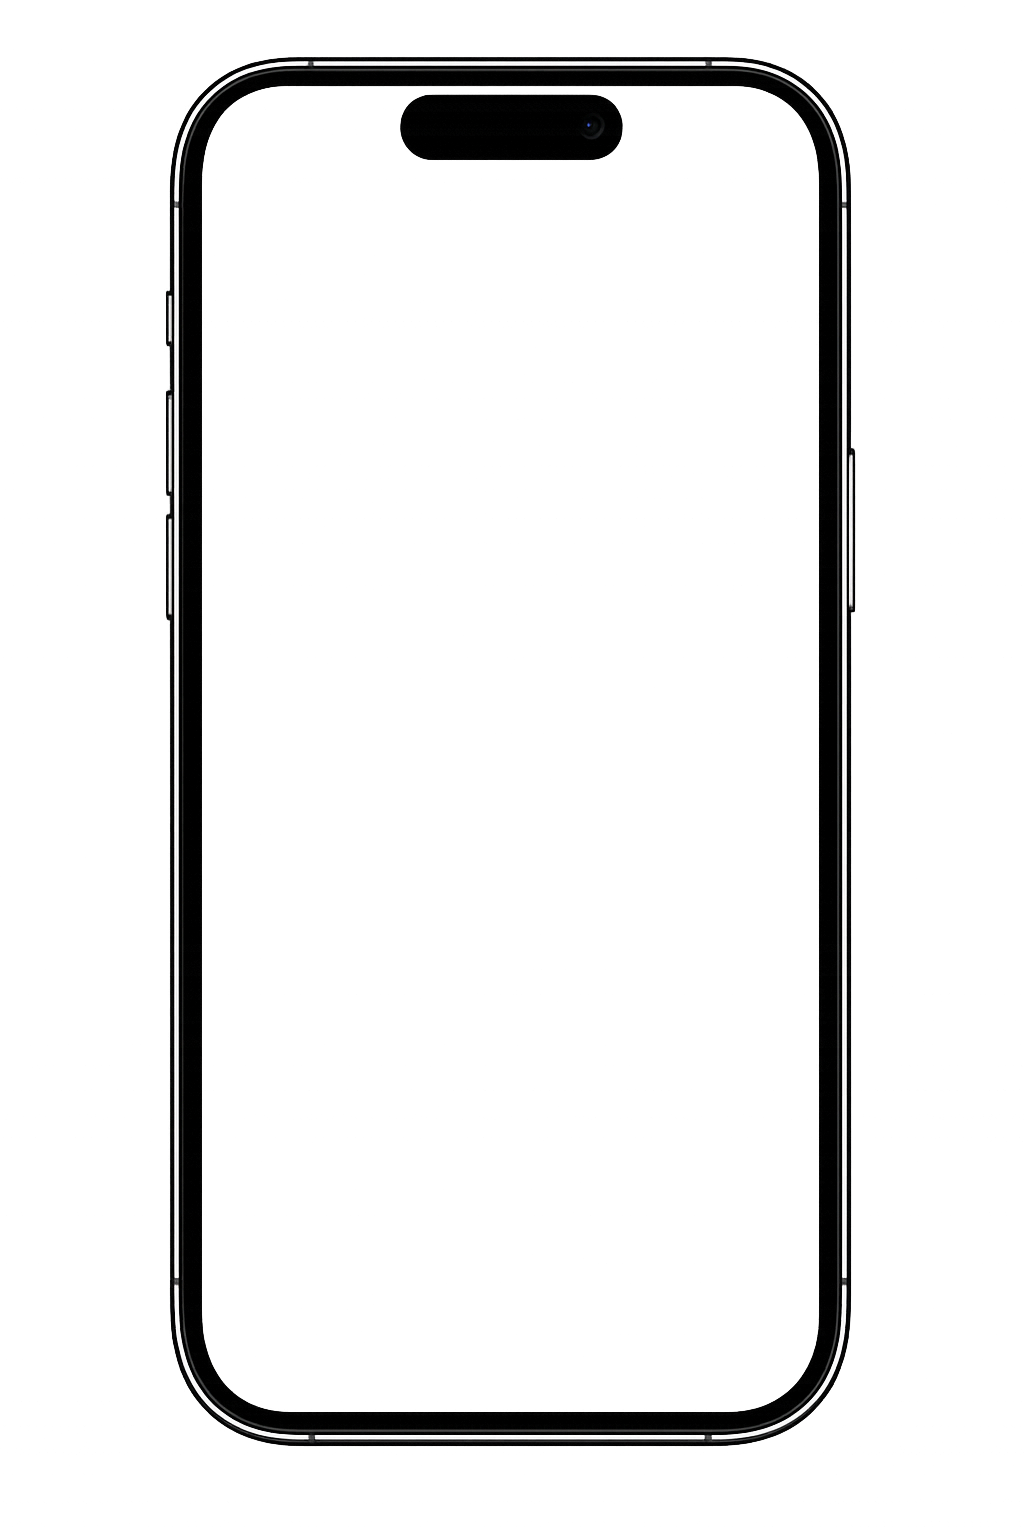
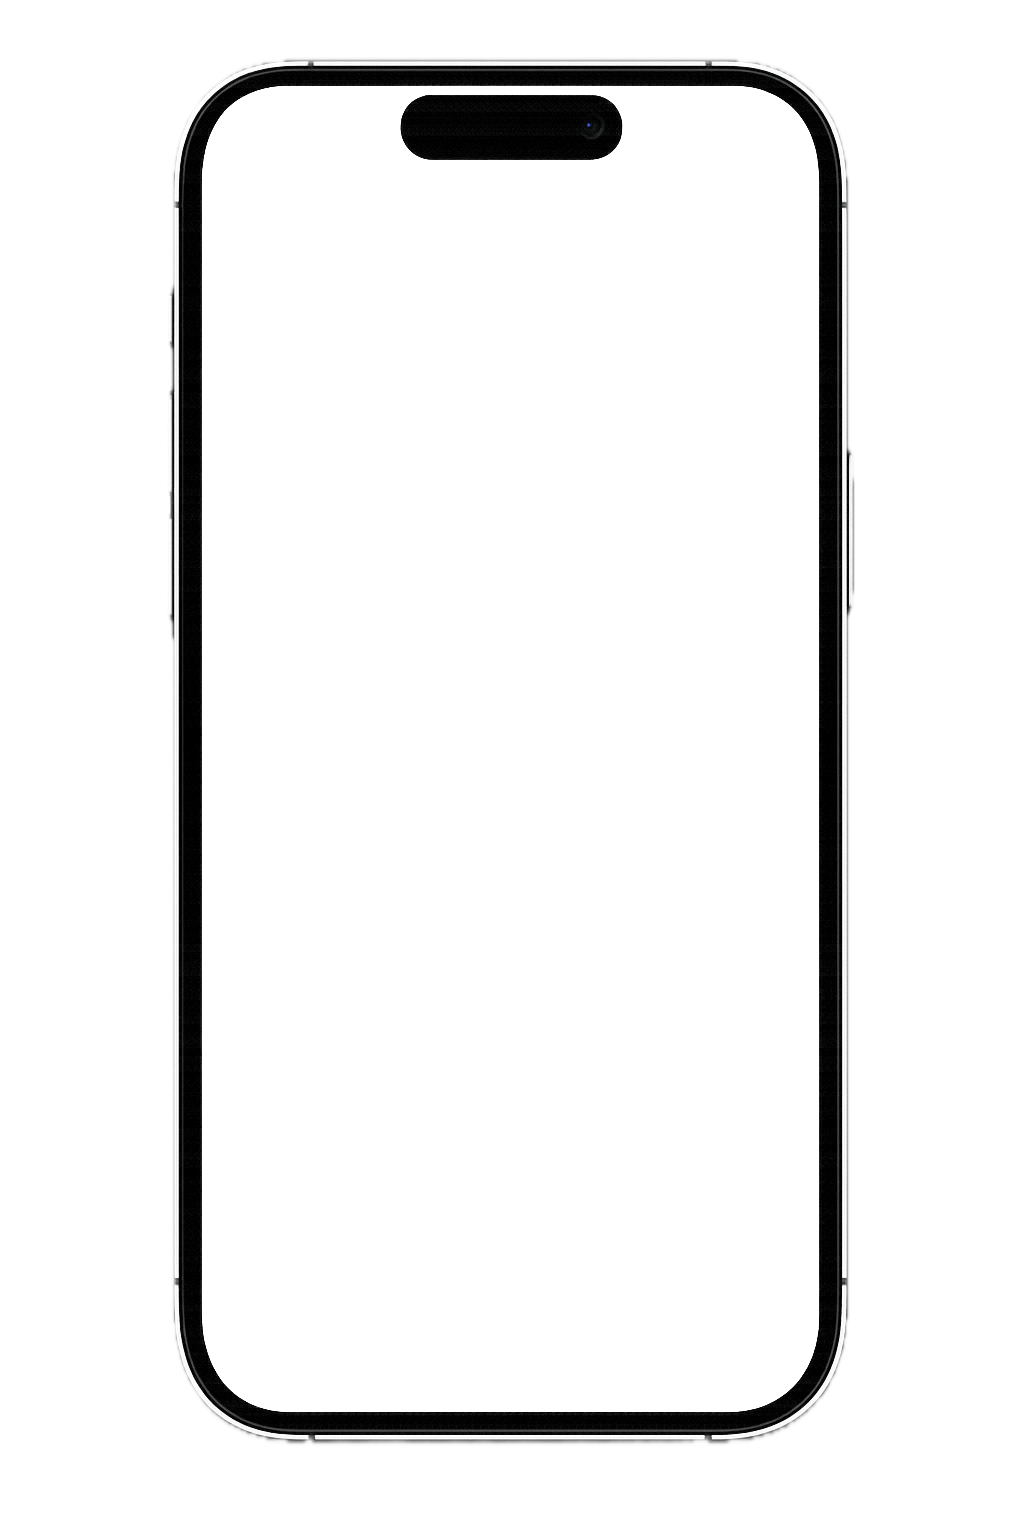
UI tweak: Change frame to Subject.png and map exact screen coordinates

diff --git a/website/test.html b/website/test.html
@@ -1,0 +1,44 @@
+<!DOCTYPE html>
+<html>
+<head>
+  <style>
+    body { background: #eee; font-family: sans-serif; display: flex; justify-content: center; padding: 50px; }
+    .container {
+      position: relative;
+      margin: 0 auto;
+      width: min(460px, 88vw);
+      outline: 2px solid red;
+    }
+    .img-frame {
+      position: relative;
+      width: 100%;
+      height: auto;
+      z-index: 20;
+      opacity: 0.5; /* See through */
+    }
+    .chat-box {
+      position: absolute;
+      display: flex;
+      flex-direction: column;
+      overflow: hidden;
+      z-index: 10;
+      top: 2.5%;
+      left: 6.5%;
+      right: 6.5%;
+      bottom: 2.5%;
+      border-radius: 10%;
+      background-color: #111b21;
+      color: white;
+      padding: 20px;
+    }
+  </style>
+</head>
+<body>
+  <div class="container">
+    <img src="public/Subject.png" class="img-frame" />
+    <div class="chat-box">
+      This is the black chat box. If it sticks out, I will be very confused.
+    </div>
+  </div>
+</body>
+</html>

diff --git a/website/src/components/Conversation.tsx b/website/src/components/Conversation.tsx
@@ -182,19 +182,19 @@ export function Conversation() {
         >
           {/* Phone frame overlay — dictates aspect ratio */}
           <img
-            src="/frame.png"
+            src="/Subject.png"
             alt=""
-            className="relative w-full h-auto pointer-events-none z-20"
+            className="relative w-full h-auto block pointer-events-none z-20 drop-shadow-2xl"
           />
 
-          {/* Screen content — insets for standard iPhone frame PNG */}
+          {/* Screen content — exact insets for Subject.png */}
           <div
             className="absolute flex flex-col overflow-hidden z-10"
             style={{
-              top: "2.5%",
-              left: "6.5%",
-              right: "6.5%",
-              bottom: "2.5%",
+              top: "1.67%",
+              left: "4.69%",
+              right: "4.99%",
+              bottom: "2.32%",
               borderRadius: "10%",
               backgroundColor: "#111b21",
             }}

diff --git a/website/find_screen.py b/website/find_screen.py
@@ -1,0 +1,75 @@
+from PIL import Image
+import numpy as np
+
+img = Image.open('public/Subject.png').convert("RGBA")
+data = np.array(img)
+# The screen is transparent, so alpha == 0 inside the phone.
+# We know the outside is also transparent, but the phone frame is solid.
+# Let's look at the middle row of the image to find the left and right bezels.
+height, width, _ = data.shape
+middle_row = data[height // 2, :, 3]
+
+# Find the first solid pixel from the left
+left_bezel_start = -1
+for i in range(width):
+    if middle_row[i] > 100:
+        left_bezel_start = i
+        break
+
+# Find the end of the left bezel (first transparent pixel after the bezel)
+screen_start = -1
+for i in range(left_bezel_start, width):
+    if middle_row[i] < 100:
+        screen_start = i
+        break
+
+# Find the first solid pixel from the right
+right_bezel_start = -1
+for i in range(width - 1, -1, -1):
+    if middle_row[i] > 100:
+        right_bezel_start = i
+        break
+
+# Find the end of the right bezel
+screen_end = -1
+for i in range(right_bezel_start, -1, -1):
+    if middle_row[i] < 100:
+        screen_end = i
+        break
+
+print(f"Left bezel starts at: {left_bezel_start} ({left_bezel_start/width*100:.2f}%)")
+print(f"Screen starts at: {screen_start} ({screen_start/width*100:.2f}%)")
+print(f"Screen ends at: {screen_end} ({(width-screen_end)/width*100:.2f}% from right)")
+print(f"Right bezel ends at: {right_bezel_start} ({(width-right_bezel_start)/width*100:.2f}% from right)")
+
+# Now let's do the middle column for top and bottom
+middle_col = data[:, width // 2, 3]
+
+top_bezel_start = -1
+for i in range(height):
+    if middle_col[i] > 100:
+        top_bezel_start = i
+        break
+
+screen_top = -1
+for i in range(top_bezel_start, height):
+    if middle_col[i] < 100:
+        screen_top = i
+        break
+
+bottom_bezel_start = -1
+for i in range(height - 1, -1, -1):
+    if middle_col[i] > 100:
+        bottom_bezel_start = i
+        break
+
+screen_bottom = -1
+for i in range(bottom_bezel_start, -1, -1):
+    if middle_col[i] < 100:
+        screen_bottom = i
+        break
+
+print(f"Top bezel starts at: {top_bezel_start} ({top_bezel_start/height*100:.2f}%)")
+print(f"Screen starts at top: {screen_top} ({screen_top/height*100:.2f}%)")
+print(f"Screen ends at bottom: {screen_bottom} ({(height-screen_bottom)/height*100:.2f}% from bottom)")
+

diff --git a/website/get_transparent_box.py b/website/get_transparent_box.py
@@ -1,0 +1,24 @@
+from PIL import Image
+import numpy as np
+
+img = Image.open('public/Subject.png').convert("RGBA")
+data = np.array(img)
+
+# Find pixels where alpha is 0
+alpha = data[:, :, 3]
+transparent_pixels = np.where(alpha == 0)
+
+if len(transparent_pixels[0]) > 0:
+    min_y = np.min(transparent_pixels[0])
+    max_y = np.max(transparent_pixels[0])
+    min_x = np.min(transparent_pixels[1])
+    max_x = np.max(transparent_pixels[1])
+    
+    height, width = alpha.shape
+    
+    print(f"Top: {min_y / height * 100:.2f}%")
+    print(f"Bottom: {(height - max_y) / height * 100:.2f}%")
+    print(f"Left: {min_x / width * 100:.2f}%")
+    print(f"Right: {(width - max_x) / width * 100:.2f}%")
+else:
+    print("No fully transparent pixels found.")

diff --git a/website/get_solid_box2.py b/website/get_solid_box2.py
@@ -1,0 +1,23 @@
+from PIL import Image
+import numpy as np
+
+img = Image.open('public/Subject.png').convert("RGBA")
+data = np.array(img)
+alpha = data[:, :, 3]
+
+solid_pixels = np.where(alpha > 200)
+
+if len(solid_pixels[0]) > 0:
+    min_y = np.min(solid_pixels[0])
+    max_y = np.max(solid_pixels[0])
+    min_x = np.min(solid_pixels[1])
+    max_x = np.max(solid_pixels[1])
+    
+    height, width = alpha.shape
+    
+    print(f"Top padding: {min_y / height * 100:.2f}%")
+    print(f"Bottom padding: {(height - max_y) / height * 100:.2f}%")
+    print(f"Left padding: {min_x / width * 100:.2f}%")
+    print(f"Right padding: {(width - max_x) / width * 100:.2f}%")
+else:
+    print("No solid pixels found.")

diff --git a/website/get_solid_box.py b/website/get_solid_box.py
@@ -1,0 +1,22 @@
+from PIL import Image
+import numpy as np
+
+img = Image.open('public/Subject.png').convert("RGBA")
+data = np.array(img)
+alpha = data[:, :, 3]
+
+solid_pixels = np.where(alpha > 10)
+
+if len(solid_pixels[0]) > 0:
+    min_y = np.min(solid_pixels[0])
+    max_y = np.max(solid_pixels[0])
+    min_x = np.min(solid_pixels[1])
+    max_x = np.max(solid_pixels[1])
+    
+    height, width = alpha.shape
+    
+    print(f"Top padding: {min_y / height * 100:.2f}%")
+    print(f"Bottom padding: {(height - max_y) / height * 100:.2f}%")
+    print(f"Left padding: {min_x / width * 100:.2f}%")
+    print(f"Right padding: {(width - max_x) / width * 100:.2f}%")
+    print(f"Screen width roughly: {((max_x - min_x) / width) * 100:.2f}%")

diff --git a/website/ascii_img.py b/website/ascii_img.py
@@ -1,0 +1,12 @@
+from PIL import Image
+import numpy as np
+
+img = Image.open('public/Subject.png').convert("RGBA")
+# Resize to 50x50 to print an ascii art
+img_small = img.resize((40, 80))
+data = np.array(img_small)
+alpha = data[:, :, 3]
+
+for row in alpha:
+    line = "".join(["#" if a > 50 else "." for a in row])
+    print(line)

diff --git a/website/ascii_img2.py b/website/ascii_img2.py
@@ -1,0 +1,11 @@
+from PIL import Image
+import numpy as np
+
+img = Image.open('public/frame.png').convert("RGBA")
+img_small = img.resize((40, 80))
+data = np.array(img_small)
+alpha = data[:, :, 3]
+
+for row in alpha:
+    line = "".join(["#" if a > 50 else "." for a in row])
+    print(line)